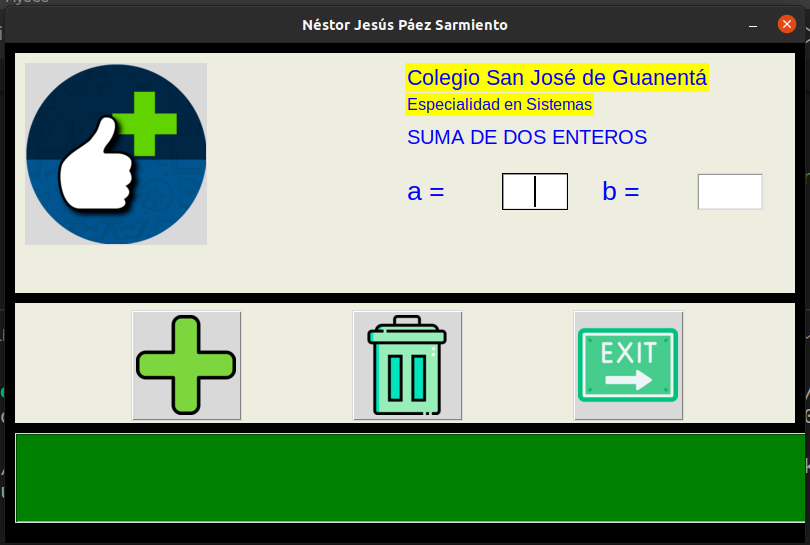
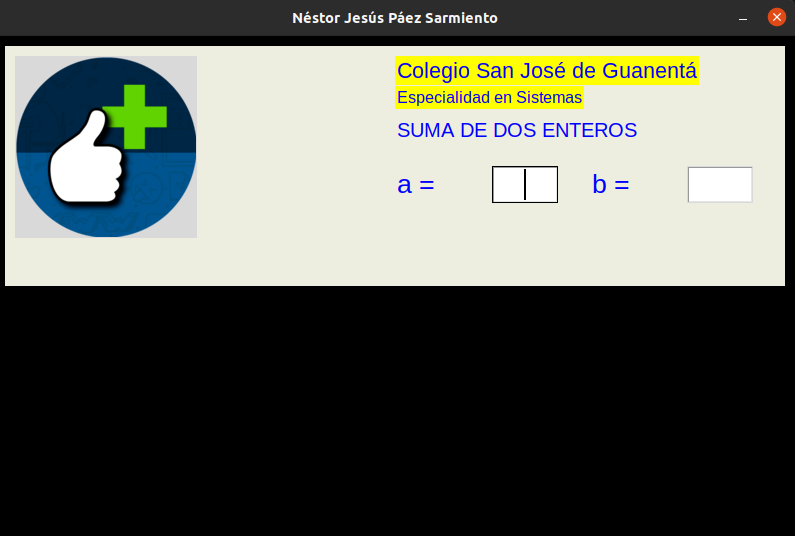
agregar imagenes

diff --git a/gui_01/gui_01.py b/gui_01/gui_01.py
@@ -138,4 +138,5 @@ t_resultados.config(bg="green", fg="white", font=("Courier", 20))
 t_resultados.pack()
 
 # se ejecuta el metodo mainloop() de la clase Tk() a través de la instancia ventana_principal.  Este metodo despliega una ventana simple en pantalla y queda a la espera de lo que el usuario haga (click en boton, escribir, etc).  Cada accion del usuario se conoce como un evento.  El metodo mainloop() es un bucle infinito.
+
 ventana_principal.mainloop()

diff --git a/README.md b/README.md
@@ -5,3 +5,11 @@
 ## Ventana principal y frame entrada de datos 
 
 ![ventana principal y frame entrada](gui_01/img/ventana_principal.png "ventana principal y frame entrada")
+
+## frame operaciones (botones)
+
+![ventana principal y frame entrada](gui_01/img/frame_operaciones.png "ventana principal y frame entrada")
+
+## frame resultados
+
+![ventana principal y frame entrada](gui_01/img/frame_resultados.png "ventana principal y frame entrada")
